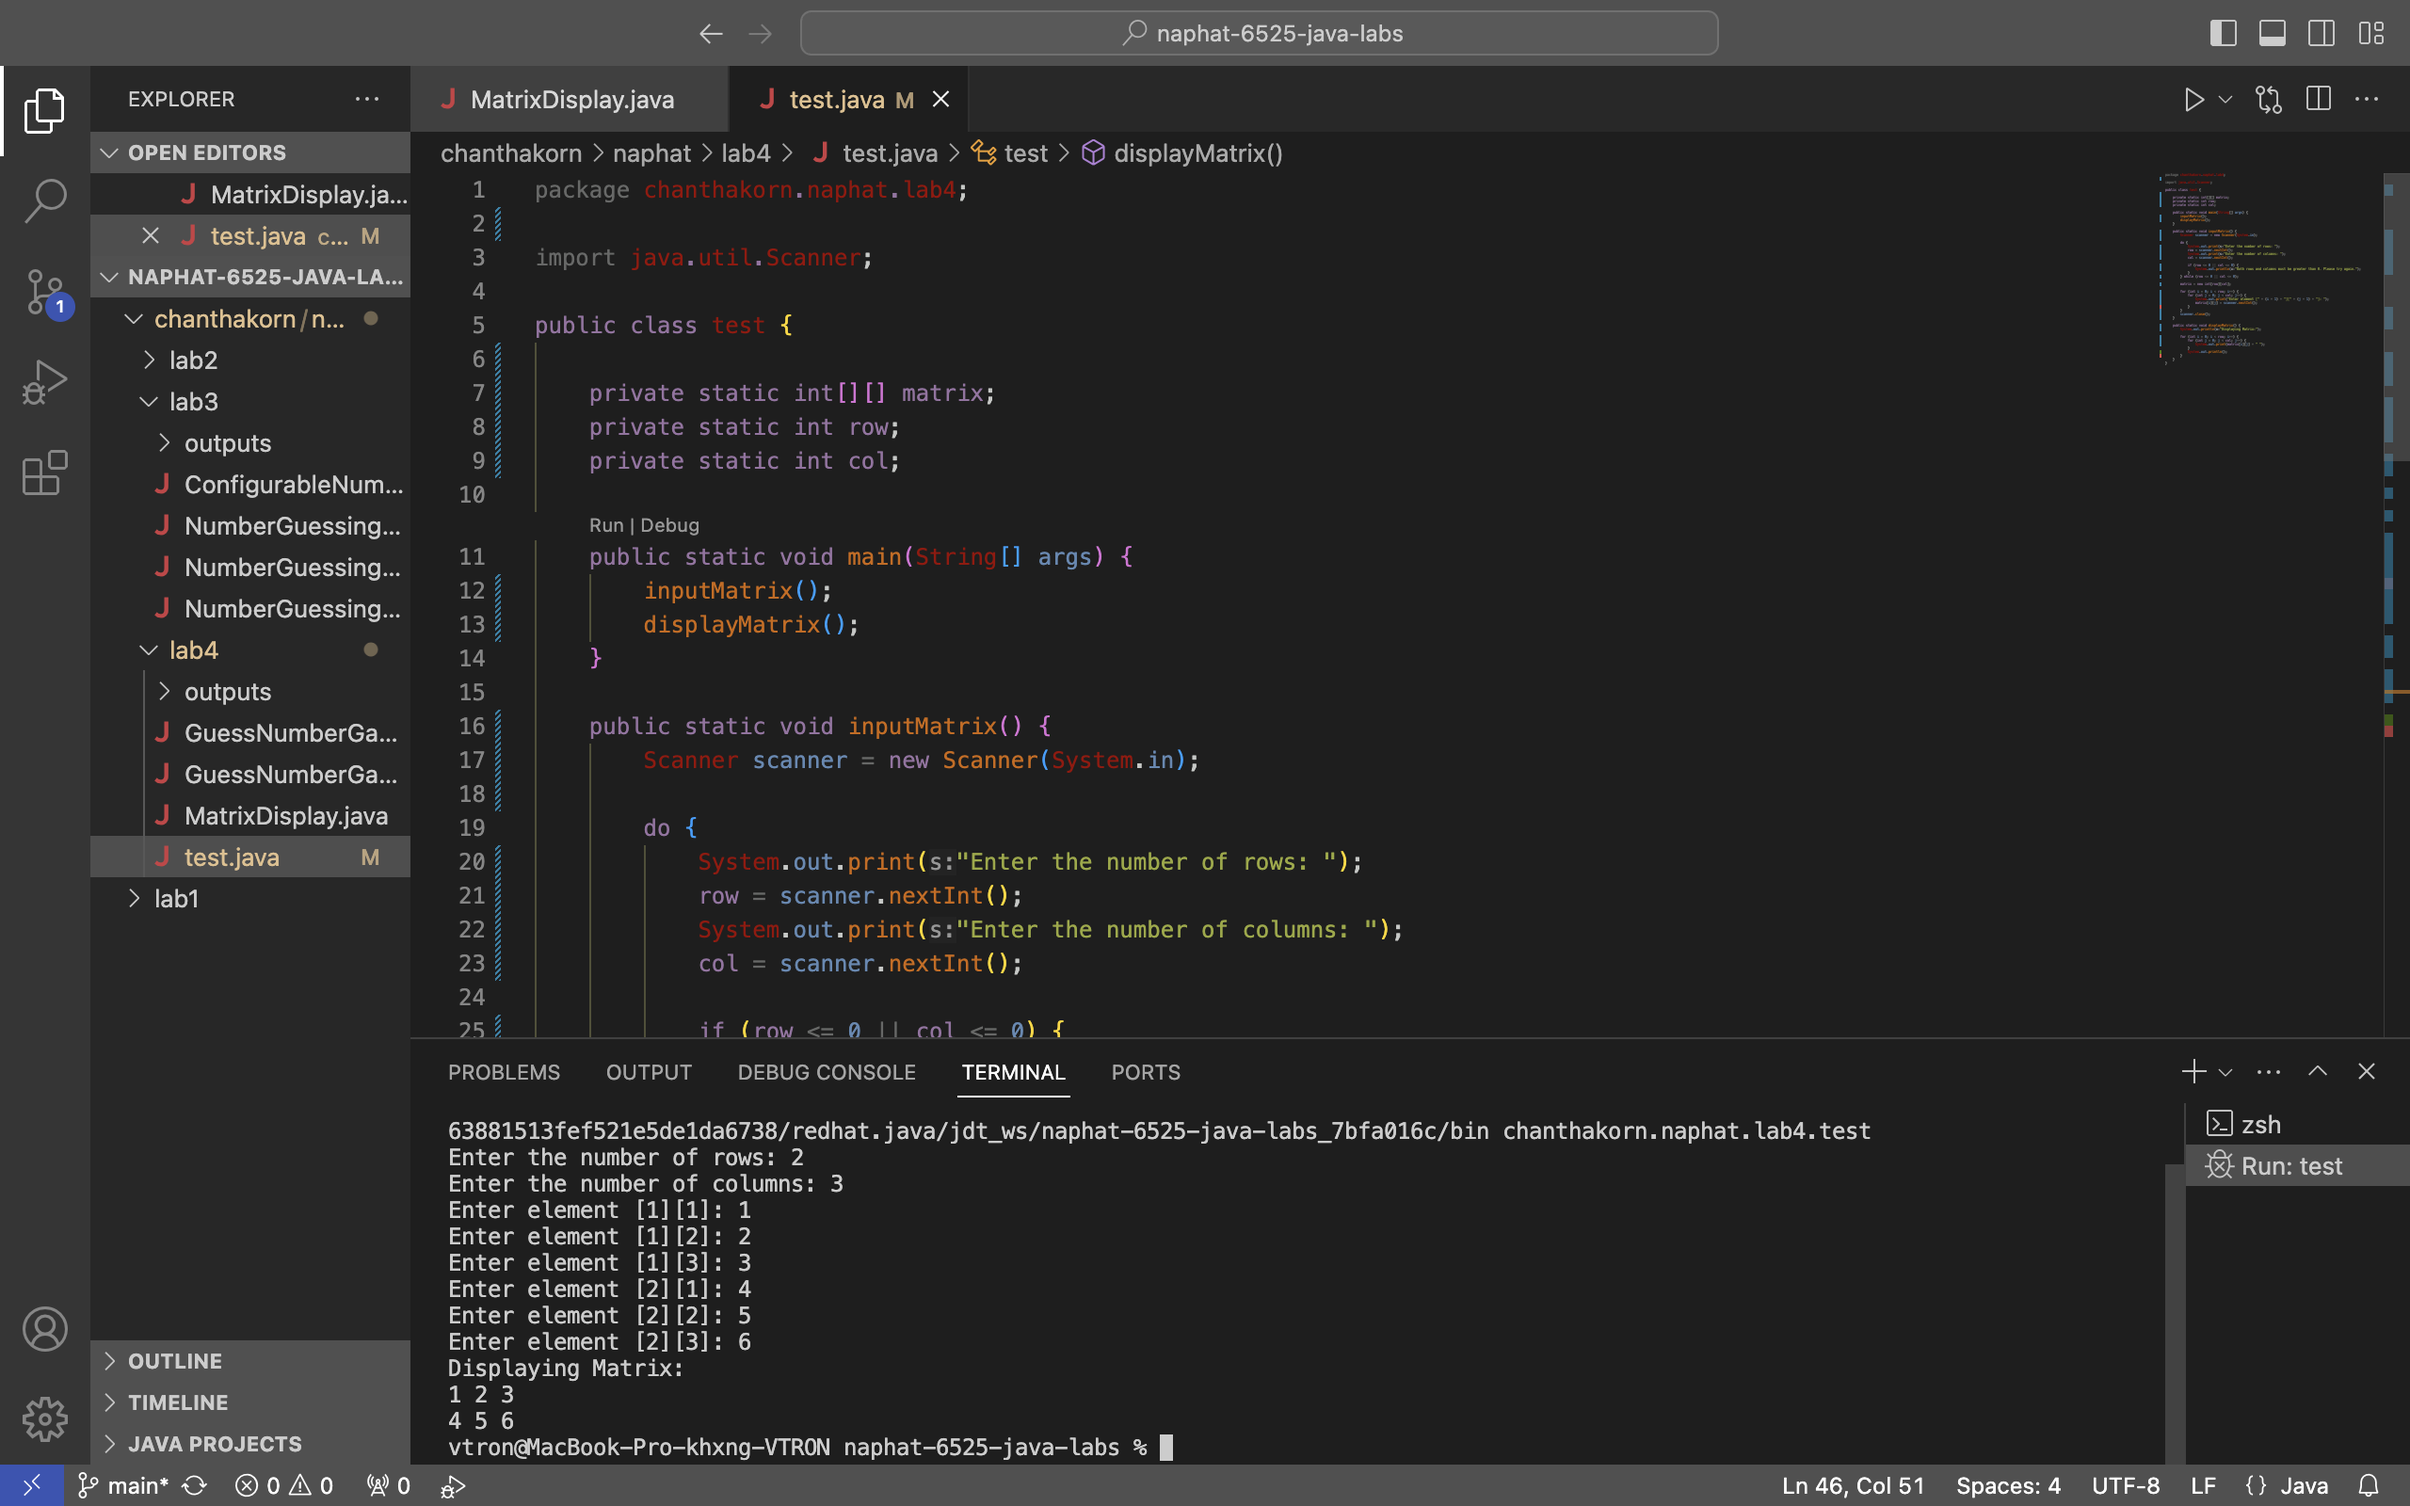
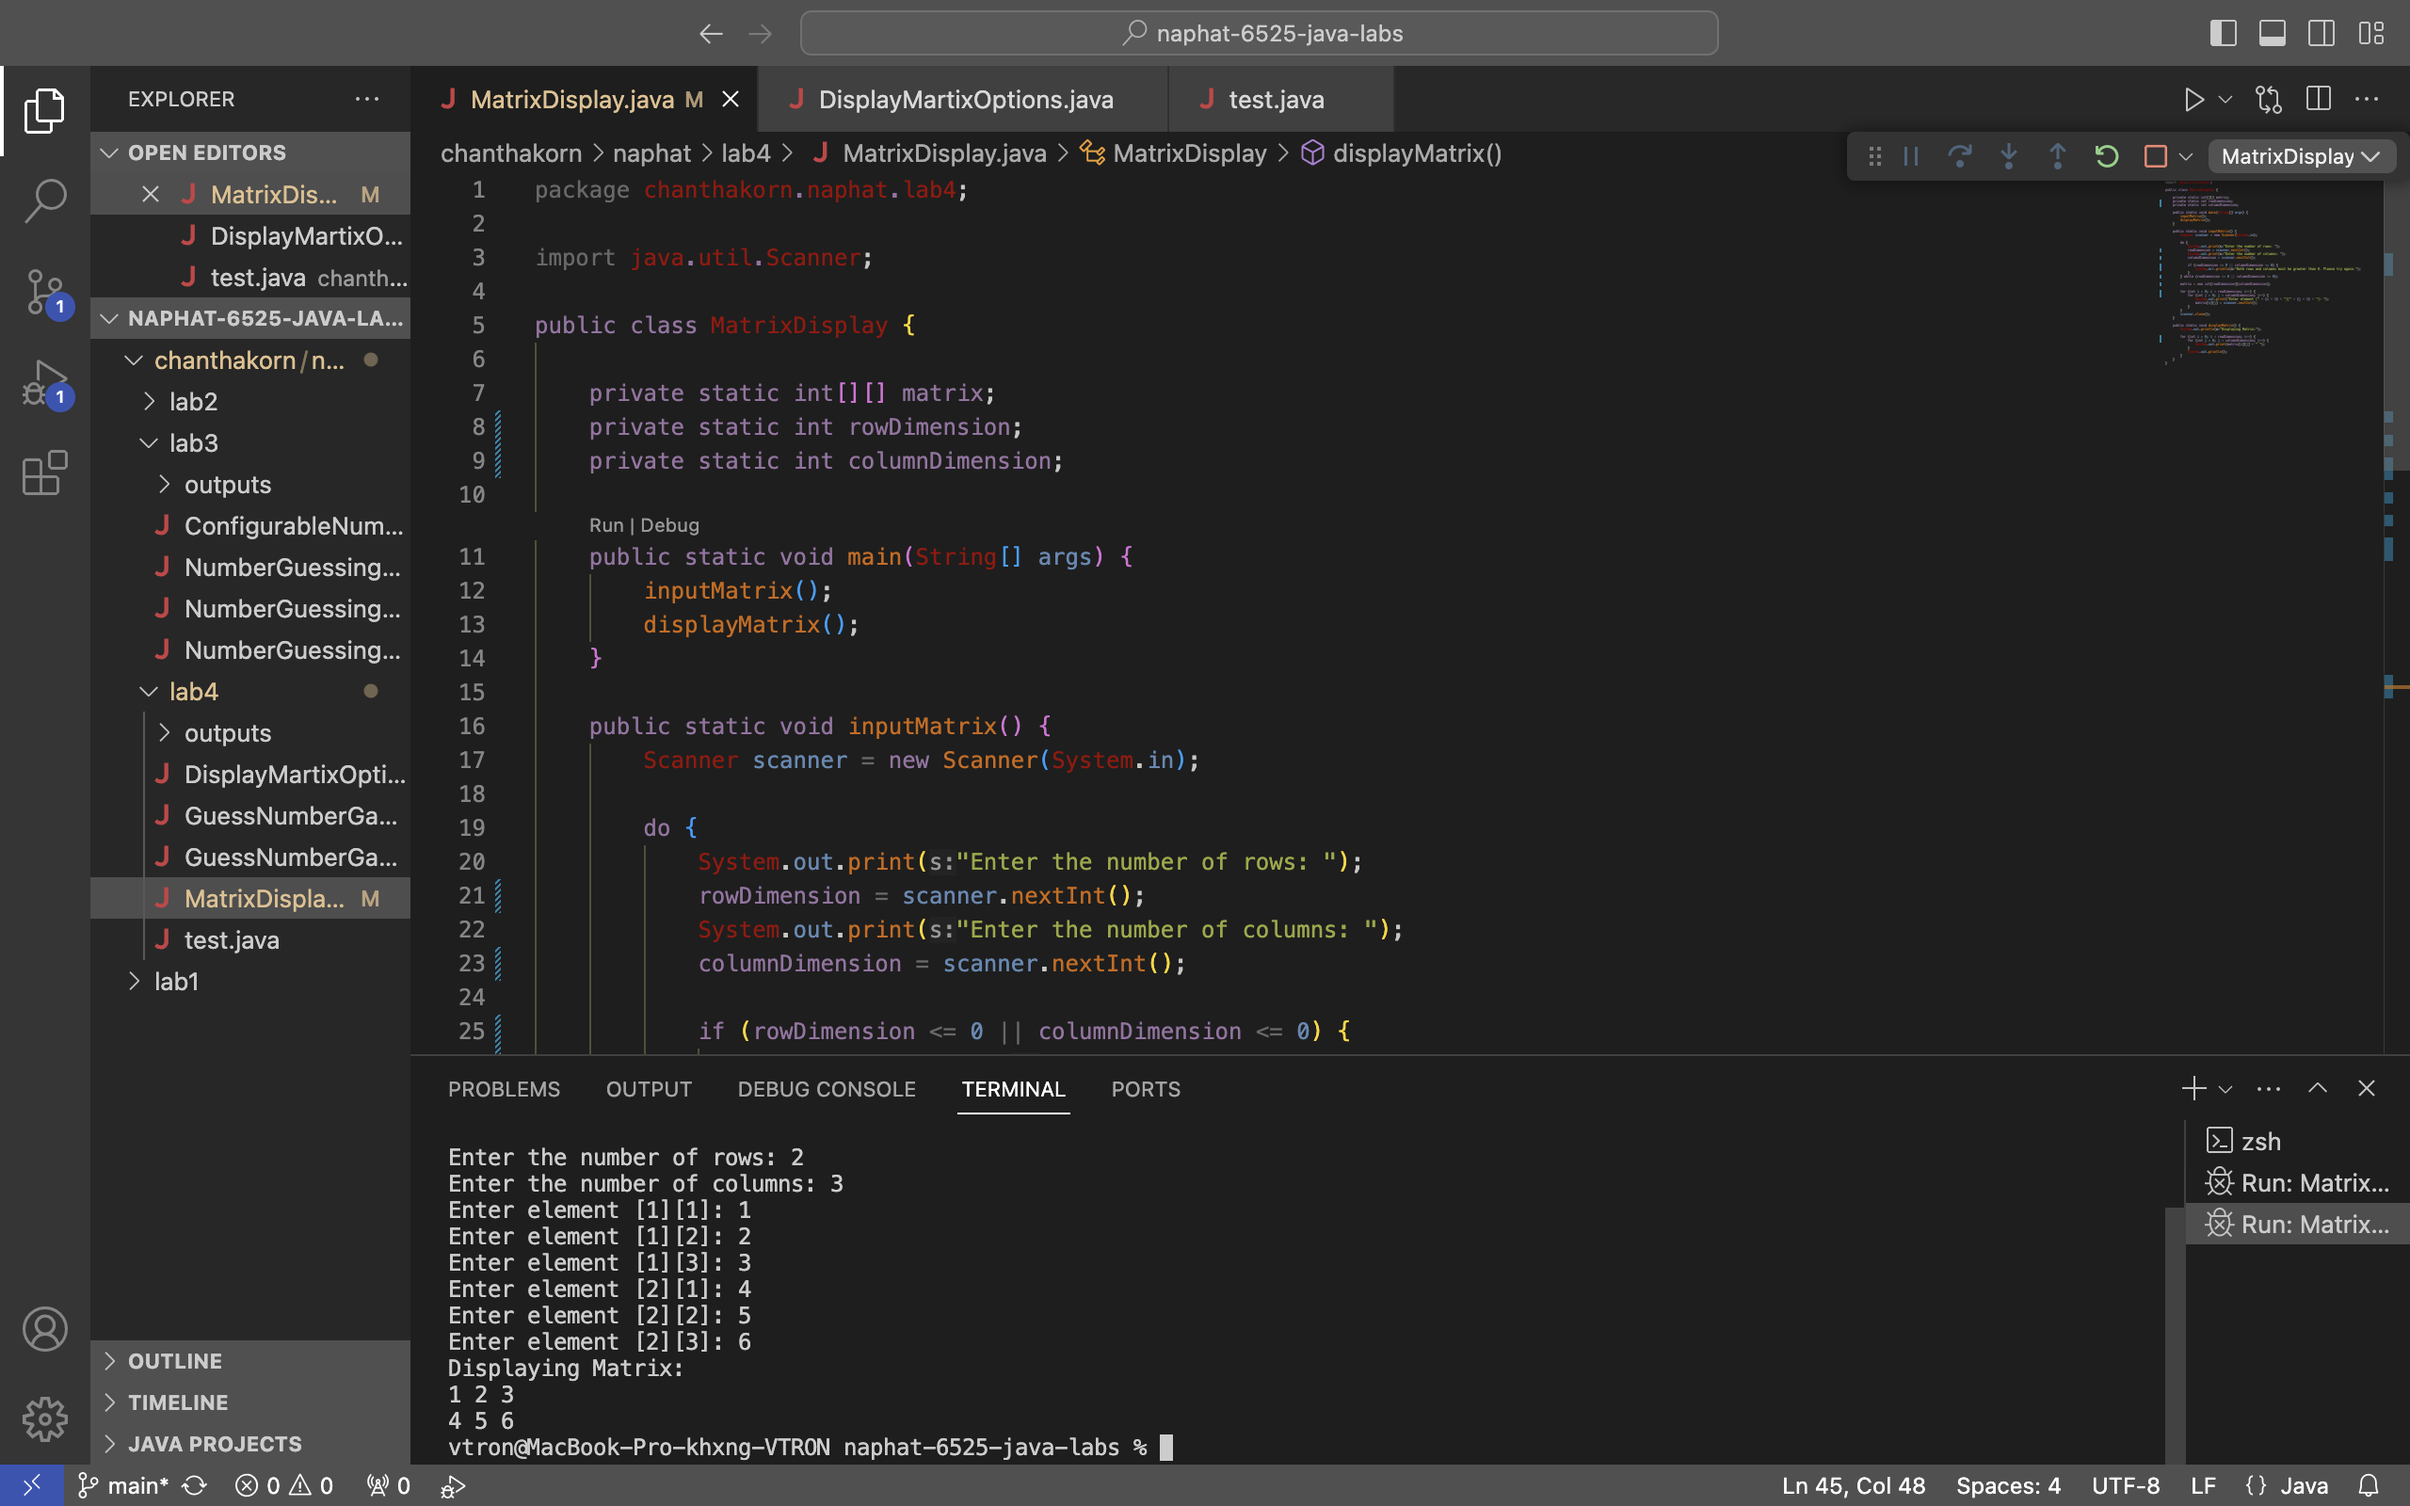
edit variables & upload outputs

diff --git a/chanthakorn/naphat/lab4/MatrixDisplay.java b/chanthakorn/naphat/lab4/MatrixDisplay.java
@@ -5,8 +5,8 @@ import java.util.Scanner;
 public class MatrixDisplay {
 
     private static int[][] matrix;
-    private static int row;
-    private static int col;
+    private static int rowDimension;
+    private static int columnDimension;
 
     public static void main(String[] args) {
         inputMatrix();
@@ -18,19 +18,19 @@ public class MatrixDisplay {
 
         do {
             System.out.print("Enter the number of rows: ");
-            row = scanner.nextInt();
+            rowDimension = scanner.nextInt();
             System.out.print("Enter the number of columns: ");
-            col = scanner.nextInt();
+            columnDimension = scanner.nextInt();
 
-            if (row <= 0 || col <= 0) {
-                System.out.println("Both rows and columns must be greater than 0. Please try again.");
+            if (rowDimension <= 0 || columnDimension <= 0) {
+                System.err.println("Both rows and columns must be greater than 0. Please try again.");
             }
-        } while (row <= 0 || col <= 0);
+        } while (rowDimension <= 0 || columnDimension <= 0);
 
-        matrix = new int[row][col];
+        matrix = new int[rowDimension][columnDimension];
 
-        for (int i = 0; i < row; i++) {
-            for (int j = 0; j < col; j++) {
+        for (int i = 0; i < rowDimension; i++) {
+            for (int j = 0; j < columnDimension; j++) {
                 System.out.print("Enter element [" + (i + 1) + "][" + (j + 1) + "]: ");
                 matrix[i][j] = scanner.nextInt();
             }
@@ -41,8 +41,8 @@ public class MatrixDisplay {
     public static void displayMatrix() {
         System.out.println("Displaying Matrix:");
 
-        for (int i = 0; i < row; i++) {
-            for (int j = 0; j < col; j++) {
+        for (int i = 0; i < rowDimension; i++) {
+            for (int j = 0; j < columnDimension; j++) {
                 System.out.print(matrix[i][j] + " ");
             }
             System.out.println();
